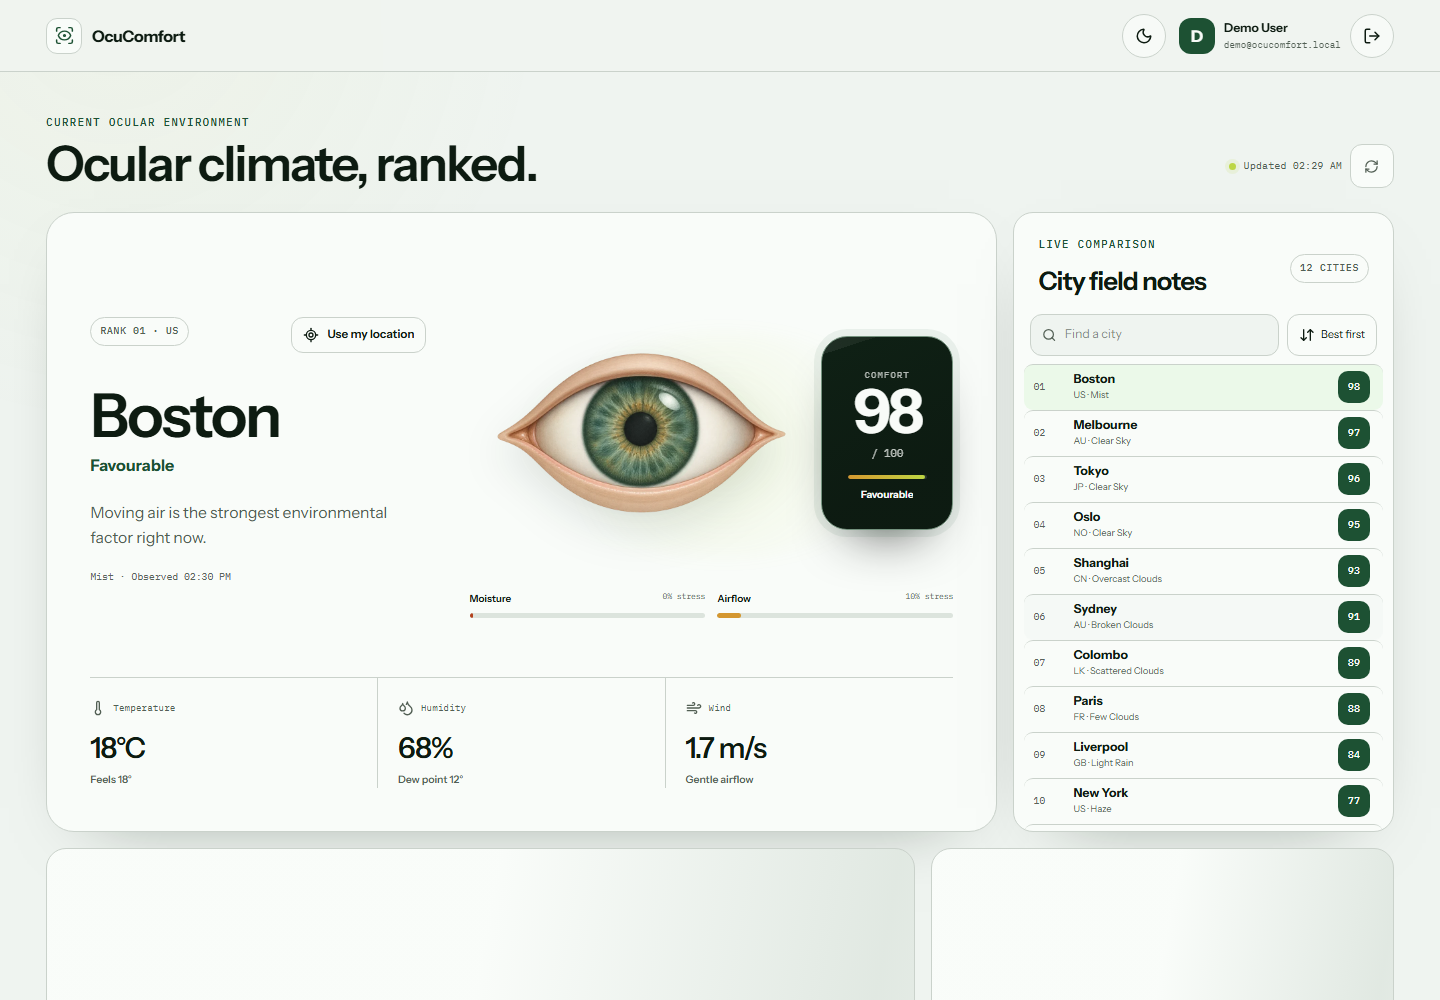
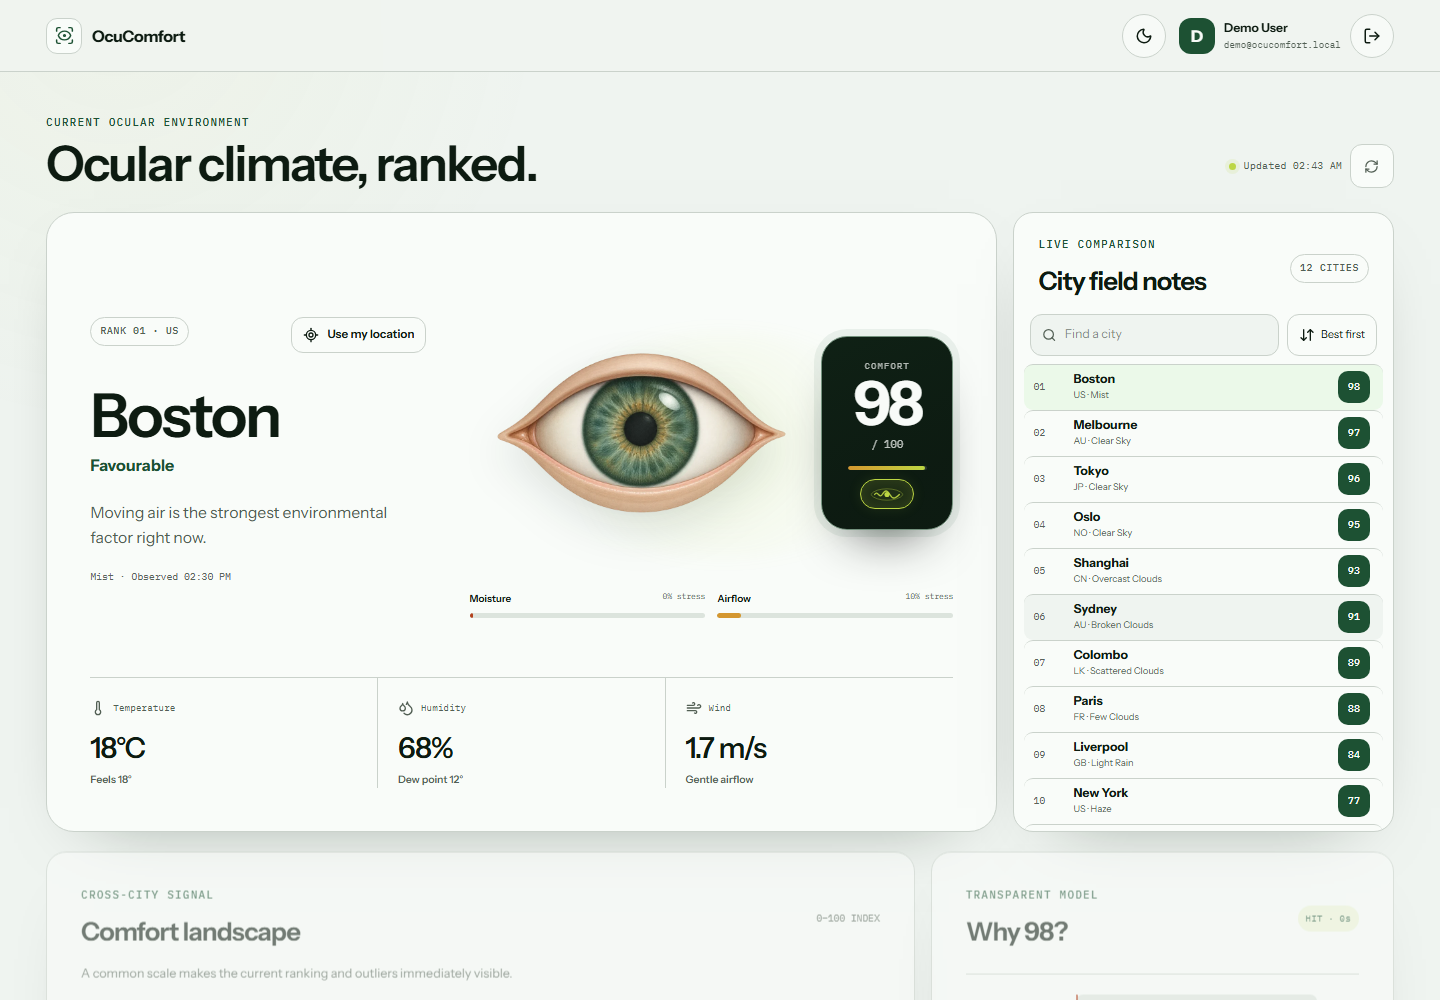
Refine comfort score signal

diff --git a/src/client/styles.css b/src/client/styles.css
@@ -143,7 +143,9 @@ h1, h2 { margin-bottom: 0; font-family: var(--font-sans); font-weight: 650; lett
 .eye-visual__iris-aura { z-index: 1; width: 35%; background: var(--iris-glow); filter: blur(22px); opacity: var(--ambient-opacity); transition: background-color 700ms ease-out, opacity 700ms ease-out; }
 .eye-visual__iris-tint { z-index: 3; width: 34.5%; background: var(--iris-tint); mix-blend-mode: color; opacity: var(--iris-opacity); transition: background-color 700ms ease-out, opacity 700ms ease-out; }
 .eye-visual[data-eye-state="severe"] .eye-visual__iris-aura { animation: iris-breathe 4.8s ease-in-out infinite; }
-.score-pod { position: relative; display: flex; min-height: 194px; flex-direction: column; align-items: center; justify-content: center; padding: 18px 13px 16px; overflow: hidden; border: 1px solid color-mix(in oklch, var(--primary) 60%, white); border-radius: 26px; background: linear-gradient(155deg, color-mix(in oklch, var(--score-surface) 88%, var(--primary)) 0%, var(--score-surface) 72%); color: var(--score-ink); box-shadow: 0 0 0 7px color-mix(in oklch, var(--primary) 7%, transparent), 0 28px 55px -32px oklch(0.1 0.02 155 / 0.9); animation: none; }.score-pod::after { content: ""; position: absolute; inset: -70% -120% auto; height: 90%; transform: rotate(-18deg); background: linear-gradient(90deg, transparent, oklch(1 0 0 / 0.1), transparent); animation: score-sheen 1s 120ms ease-out both; }.score-pod span { font-family: var(--font-mono); font-size: 0.56rem; letter-spacing: 0.12em; text-transform: uppercase; opacity: 0.7; }.score-pod strong { font-size: 3.8rem; font-weight: 660; line-height: 1; letter-spacing: -0.06em; }.score-pod small { margin-top: 4px; font-family: var(--font-mono); font-size: 0.66rem; opacity: 0.75; }.score-pod > i { display: block; width: 76%; height: 4px; margin-top: 13px; overflow: hidden; border-radius: 99px; background: oklch(1 0 0 / 0.13); }.score-pod > i > i { display: block; width: var(--score-progress); height: 100%; border-radius: inherit; background: linear-gradient(90deg, var(--stress-airflow), var(--signal)); }.score-pod em { max-width: 100%; margin-top: 10px; overflow: hidden; font-family: var(--font-sans); font-size: 0.63rem; font-style: normal; font-weight: 650; line-height: 1.2; text-align: center; text-overflow: ellipsis; white-space: nowrap; }.stress-readout { display: grid; grid-template-columns: repeat(2, minmax(0, 1fr)); gap: 12px; margin-top: 8px; }.stress-meter { min-width: 0; }.stress-meter > span { display: flex; justify-content: space-between; gap: 10px; margin-bottom: 7px; color: var(--foreground-muted); font-size: 0.62rem; }.stress-meter b { color: var(--foreground); font-weight: 600; }.stress-meter small { font-family: var(--font-mono); }.stress-meter > i { display: block; height: 5px; overflow: hidden; border-radius: 99px; background: var(--chart-track); }.stress-meter > i > i { display: block; height: 100%; min-width: 3px; border-radius: inherit; transition: width 420ms ease-out; }.stress-meter--moisture > i > i { background: var(--stress-moisture); }.stress-meter--airflow > i > i { background: var(--stress-airflow); }
+.score-pod { position: relative; display: flex; min-height: 194px; flex-direction: column; align-items: center; justify-content: center; padding: 18px 13px 16px; overflow: hidden; border: 1px solid color-mix(in oklch, var(--primary) 60%, white); border-radius: 26px; background: linear-gradient(155deg, color-mix(in oklch, var(--score-surface) 88%, var(--primary)) 0%, var(--score-surface) 72%); color: var(--score-ink); box-shadow: 0 0 0 7px color-mix(in oklch, var(--primary) 7%, transparent), 0 28px 55px -32px oklch(0.1 0.02 155 / 0.9); animation: none; }.score-pod::after { content: ""; position: absolute; inset: -70% -120% auto; height: 90%; transform: rotate(-18deg); background: linear-gradient(90deg, transparent, oklch(1 0 0 / 0.1), transparent); animation: score-sheen 1s 120ms ease-out both; }.score-pod > span:first-child { font-family: var(--font-mono); font-size: 0.56rem; letter-spacing: 0.12em; text-transform: uppercase; opacity: 0.7; }.score-pod strong { font-size: 3.8rem; font-weight: 660; line-height: 1; letter-spacing: -0.06em; }.score-pod small { margin-top: 4px; font-family: var(--font-mono); font-size: 0.66rem; opacity: 0.75; }.score-pod > i { display: block; width: 76%; height: 4px; margin-top: 13px; overflow: hidden; border-radius: 99px; background: oklch(1 0 0 / 0.13); }.score-pod > i > i { display: block; width: var(--score-progress); height: 100%; border-radius: inherit; background: linear-gradient(90deg, var(--stress-airflow), var(--signal)); }
+.score-pod__signal { position: relative; display: grid; width: 54px; height: 30px; margin-top: 9px; place-items: center; border: 1px solid currentcolor; border-radius: 999px; background: color-mix(in oklch, currentcolor 11%, transparent); color: var(--signal); box-shadow: inset 0 0 12px color-mix(in oklch, currentcolor 12%, transparent), 0 0 14px color-mix(in oklch, currentcolor 10%, transparent); }.score-pod__signal[data-state="watchful"] { color: var(--stress-airflow); }.score-pod__signal[data-state="elevated"], .score-pod__signal[data-state="stressed"], .score-pod__signal[data-state="severe"] { color: var(--stress-moisture); }.score-pod__signal svg { width: 38px; height: 23px; overflow: visible; }.score-pod__signal circle { fill: currentcolor; }.score-pod__orbit, .score-pod__wave { fill: none; stroke: currentcolor; stroke-linecap: round; stroke-linejoin: round; }.score-pod__orbit { stroke-width: 1; opacity: 0.38; }.score-pod__wave { stroke-width: 1.5; opacity: 0.9; }
+.stress-readout { display: grid; grid-template-columns: repeat(2, minmax(0, 1fr)); gap: 12px; margin-top: 8px; }.stress-meter { min-width: 0; }.stress-meter > span { display: flex; justify-content: space-between; gap: 10px; margin-bottom: 7px; color: var(--foreground-muted); font-size: 0.62rem; }.stress-meter b { color: var(--foreground); font-weight: 600; }.stress-meter small { font-family: var(--font-mono); }.stress-meter > i { display: block; height: 5px; overflow: hidden; border-radius: 99px; background: var(--chart-track); }.stress-meter > i > i { display: block; height: 100%; min-width: 3px; border-radius: inherit; transition: width 420ms ease-out; }.stress-meter--moisture > i > i { background: var(--stress-moisture); }.stress-meter--airflow > i > i { background: var(--stress-airflow); }
 
 .metric-strip { grid-column: 1 / -1; align-self: end; display: grid; grid-template-columns: repeat(3, 1fr); margin: 32px 0 0; border-top: 1px solid var(--border); }.metric-strip > div { min-width: 0; padding: 22px 20px 0; border-right: 1px solid var(--border); }.metric-strip > div:first-child { padding-left: 0; }.metric-strip > div:last-child { padding-right: 0; border-right: 0; }.metric-strip dt { display: flex; align-items: center; gap: 7px; color: var(--foreground-muted); font-family: var(--font-mono); font-size: 0.59rem; }.metric-strip dd { display: flex; flex-direction: column; gap: 3px; margin: 10px 0 0; font-size: clamp(1.35rem, 2.2vw, 1.8rem); font-variation-settings: "wdth" 84, "wght" 560; letter-spacing: -0.035em; }.metric-strip small { color: var(--foreground-muted); font-family: var(--font-sans); font-size: 0.65rem; letter-spacing: 0; }
 

diff --git a/tests/e2e/app.spec.ts b/tests/e2e/app.spec.ts
@@ -164,15 +164,26 @@ test("slow observations show the lightweight sensor loader", async ({ page }) =>
 
 test("eye state changes naturally while the score pod keeps only its sheen", async ({ page }) => {
   await expect(page.locator(".eye-visual")).toHaveAttribute("data-eye-state", "calm");
+  const signal = page.locator(".score-pod__signal");
+  await expect(signal).toBeVisible();
+  const calmColor = await signal.evaluate((element) => getComputedStyle(element).color);
   await page.getByRole("button", { name: /Dubai/ }).click();
   await expect(page.locator(".eye-visual")).toHaveAttribute("data-eye-state", "severe");
+  const severeColor = await signal.evaluate((element) => getComputedStyle(element).color);
+  expect(severeColor).not.toBe(calmColor);
 
   const motion = await page.locator(".score-pod").evaluate((element) => ({
     pod: getComputedStyle(element).animationName,
     sheen: getComputedStyle(element, "::after").animationName,
+    containsSignal: (() => {
+      const pod = element.getBoundingClientRect();
+      const glyph = element.querySelector(".score-pod__signal")?.getBoundingClientRect();
+      return Boolean(glyph && glyph.left >= pod.left && glyph.right <= pod.right && glyph.top >= pod.top && glyph.bottom <= pod.bottom);
+    })(),
   }));
   expect(motion.pod).toBe("none");
   expect(motion.sheen).toContain("score-sheen");
+  expect(motion.containsSignal).toBe(true);
 });
 
 test("city search and reverse sorting remain interactive", async ({ page }) => {

diff --git a/src/client/components/OcularPulse.tsx b/src/client/components/OcularPulse.tsx
@@ -32,7 +32,9 @@ export function OcularPulse({ score, factors, cityName, classification }: Ocular
           <strong>{score}</strong>
           <small>/ 100</small>
           <i aria-hidden="true"><i /></i>
-          <em>{classification}</em>
+          {/* The nearby copy already names the classification. This compact,
+              non-verbal signal keeps the pod informative without repeating it. */}
+          <ComfortSignal state={visualState.name} />
         </div>
       </div>
       <figcaption className="stress-readout">
@@ -40,6 +42,18 @@ export function OcularPulse({ score, factors, cityName, classification }: Ocular
         <StressMeter label="Airflow" value={airflow} className="airflow" />
       </figcaption>
     </figure>
+  );
+}
+
+function ComfortSignal({ state }: { state: string }) {
+  return (
+    <span className="score-pod__signal" data-state={state} aria-hidden="true">
+      <svg viewBox="0 0 40 24" focusable="false">
+        <path className="score-pod__orbit" d="M3 12C8 4 32 4 37 12C32 20 8 20 3 12Z" />
+        <path className="score-pod__wave" d="M7 12c3-5 5 5 8 0s5-5 8 0 5 5 10 0" />
+        <circle cx="20" cy="12" r="2.7" />
+      </svg>
+    </span>
   );
 }
 

diff --git a/tests/components/dashboard-components.test.tsx b/tests/components/dashboard-components.test.tsx
@@ -56,6 +56,9 @@ describe("dashboard components", () => {
     expect(container.querySelector("img")).toHaveAttribute("src", "/assets/ocular-eye-v3.webp");
     expect(screen.getByText("92")).toBeInTheDocument();
     expect(screen.getByText("/ 100")).toBeInTheDocument();
+    const scorePod = screen.getByLabelText("Comfort score 92 out of 100, Mostly favourable");
+    expect(scorePod).not.toHaveTextContent("Mostly favourable");
+    expect(scorePod.querySelector(".score-pod__signal svg")).toBeInTheDocument();
   });
 
   it("maps comfort boundaries to restrained semantic eye states", () => {
